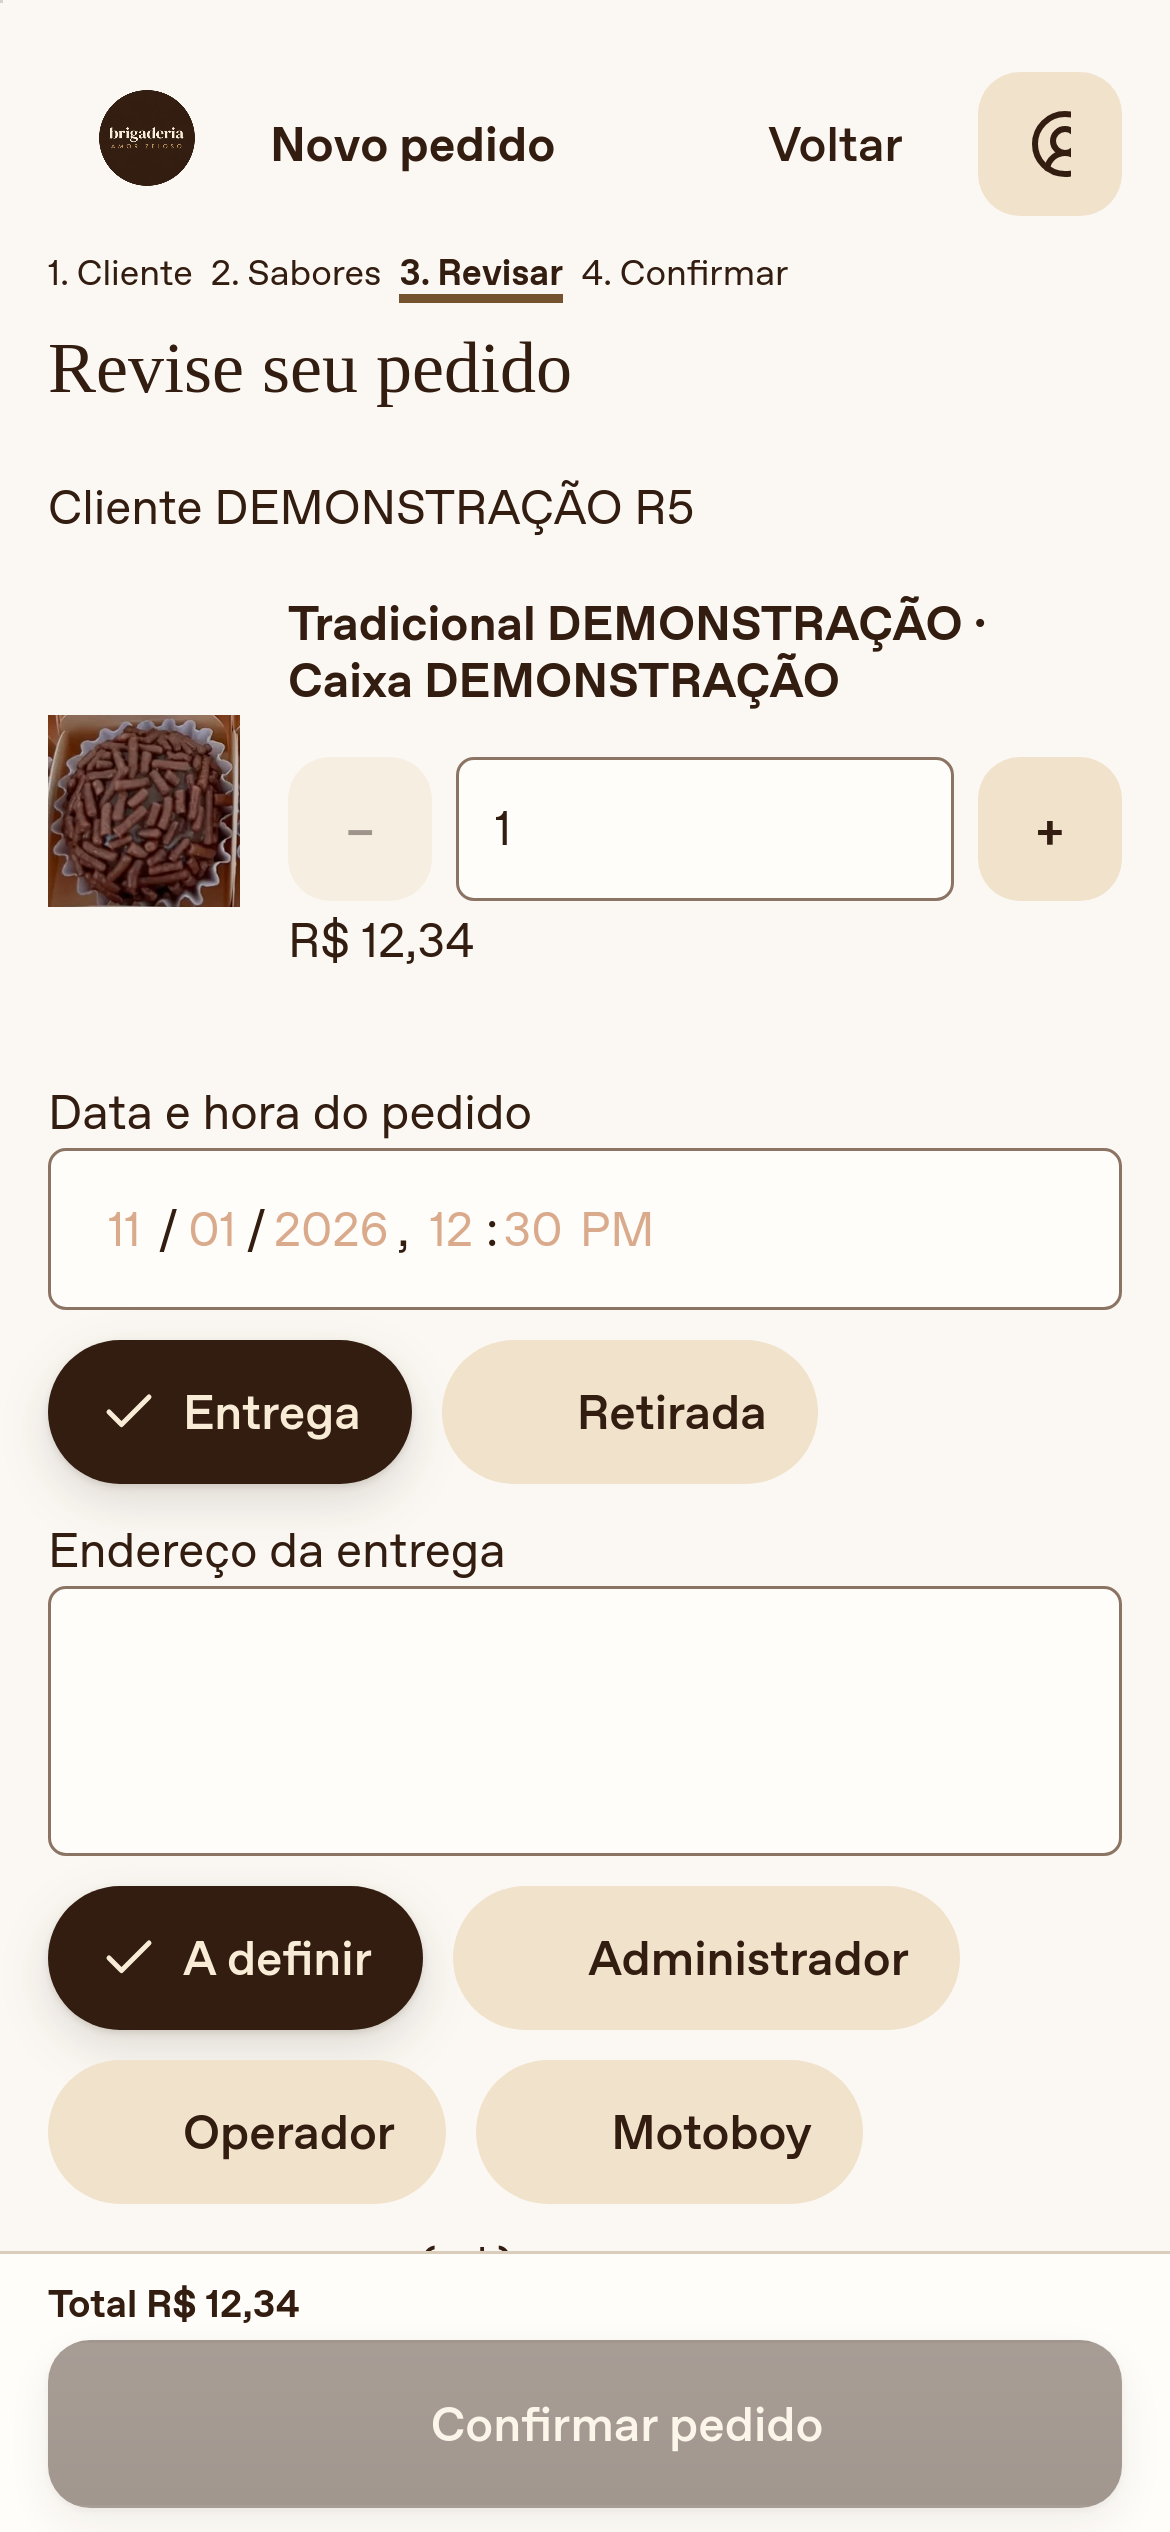
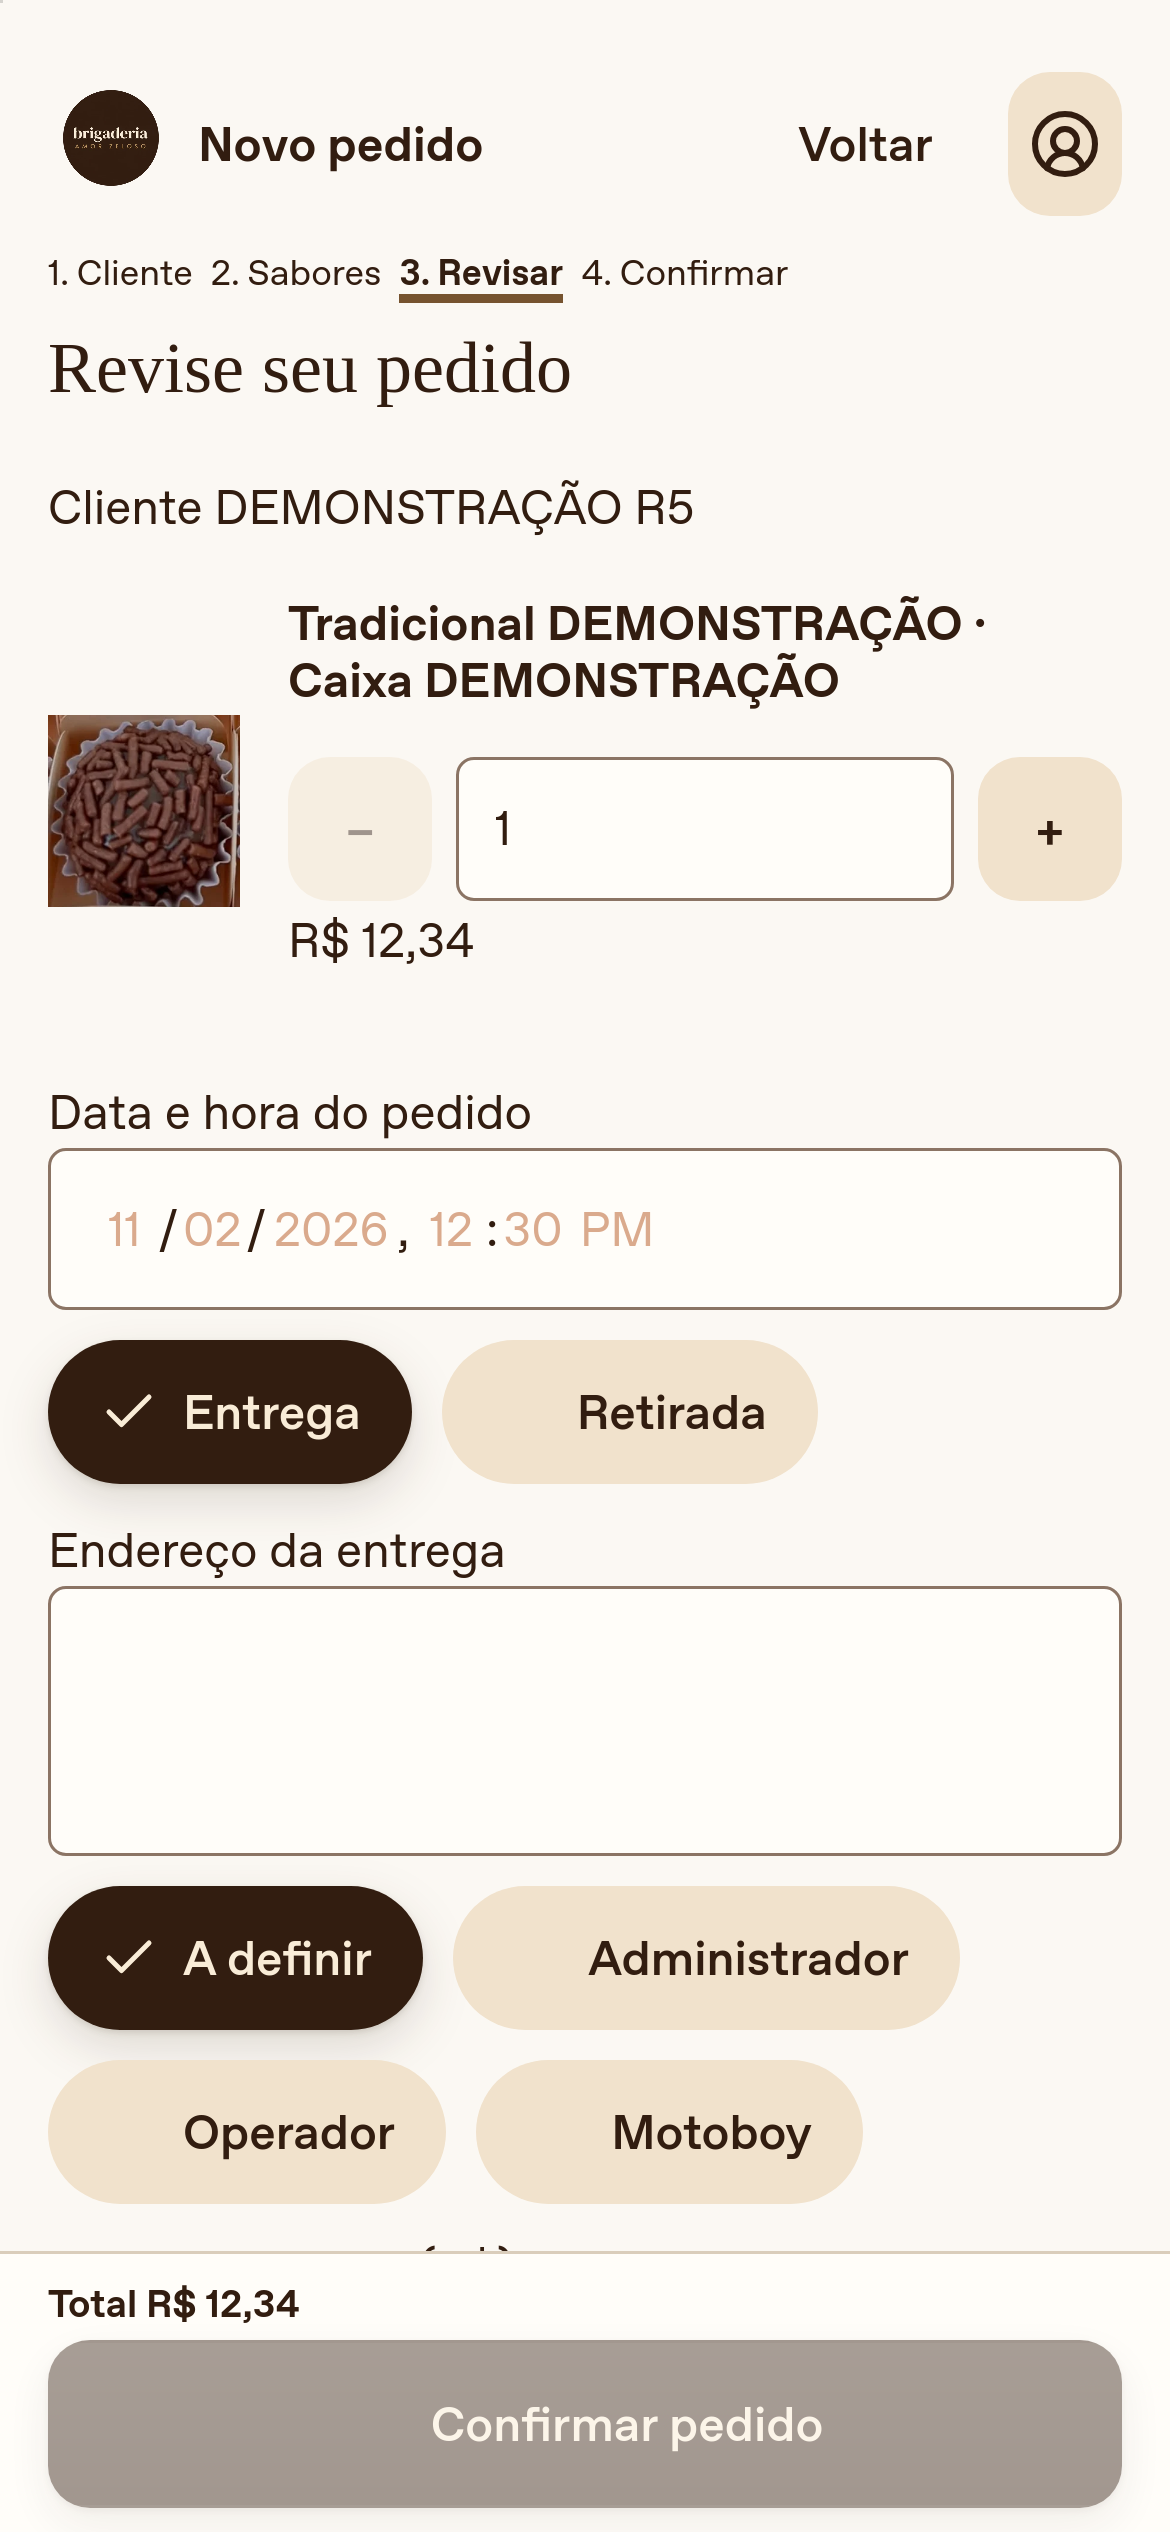
feat: prioritize operator deliveries on Today (R5-2)

diff --git a/src/features/operations/Today.tsx b/src/features/operations/Today.tsx
@@ -1,3 +1,4 @@
+import { createPortal } from 'react-dom';
 import { Button } from '../../components/Button';
 import { Transport } from '../field/Transport';
 import { TravelSheet } from '../field/TravelSheet';
@@ -30,6 +31,30 @@ import {
   MapLink,
   type OperationalOrder,
 } from './common';
+function WorkdayChip({
+  day,
+  onChange,
+}: {
+  day: string;
+  onChange: (v: string) => void;
+}) {
+  return (
+    <label className="workday-chip">
+      <span>
+        {day === localDay() ? 'Hoje, ' : ''}
+        {day.slice(8, 10)}/{day.slice(5, 7)} ▾
+      </span>
+      <input
+        aria-label="Dia de trabalho no celular"
+        type="date"
+        value={day}
+        onChange={(e) => {
+          if (e.target.value) onChange(e.target.value);
+        }}
+      />
+    </label>
+  );
+}
 function DayTotals({
   totals,
   financial = false,
@@ -142,8 +167,13 @@ export function Today({
       setBusy(false);
     }
   }
+  const dateSlot = document.getElementById('mobile-header-actions');
   return (
-    <>
+    <div
+      className={
+        role === 'operator' ? 'today-page operator-today' : 'today-page'
+      }
+    >
       {trip && (
         <TravelSheet
           orders={[trip]}
@@ -151,16 +181,9 @@ export function Today({
           onSaved={() => setNotice('Despesa de deslocamento registrada.')}
         />
       )}
-      {field && (
-        <label>
-          <input
-            type="checkbox"
-            checked={near}
-            onChange={(e) => setNear(e.target.checked)}
-          />
-          Ordenar por proximidade da base (linha reta)
-        </label>
-      )}
+      {role === 'operator' &&
+        dateSlot &&
+        createPortal(<WorkdayChip day={day} onChange={setDay} />, dateSlot)}
       <div className="page-heading today-heading">
         <div>
           <p className="eyebrow">SUA ROTINA</p>
@@ -175,7 +198,7 @@ export function Today({
           <RefreshCw size={20} aria-hidden="true" />
         </Button>
       </div>
-      <label>
+      <label className="workday-inline">
         Dia de trabalho
         <input
           type="date"
@@ -240,7 +263,7 @@ export function Today({
         </Button>
       )}
 
-      {p1 && <TodayReminders day={day} />}
+      {p1 && role === 'owner' && <TodayReminders day={day} />}
       {undo && (
         <Button
           disabled={busy}
@@ -310,9 +333,21 @@ export function Today({
           {role === 'owner' && (
             <DayTotals totals={view.data.totals} financial={financial} />
           )}
-          <h2>
-            {role === 'owner' ? 'Pedidos e pendências' : 'Entregas do dia'}
-          </h2>
+          <div className="deliveries-heading">
+            <h2>
+              {role === 'owner' ? 'Pedidos e pendências' : 'Entregas do dia'}
+            </h2>
+            {field && (
+              <Button
+                variant="chip"
+                aria-label="Ordenar por proximidade da base (linha reta)"
+                aria-pressed={near}
+                onClick={() => setNear(!near)}
+              >
+                Proximidade
+              </Button>
+            )}
+          </div>
           <div className="record-list">
             {view.data.orders
               .filter(
@@ -440,6 +475,7 @@ export function Today({
               </Button>
             </section>
           )}
+          {p1 && role === 'operator' && <TodayReminders day={day} />}
           {financial && role !== 'owner' && <FinanceSummary compact />}
           {role !== 'owner' && (
             <DayTotals totals={view.data.totals} financial={financial} />
@@ -448,6 +484,6 @@ export function Today({
       ) : (
         !view.error && <p role="status">Carregando seu dia…</p>
       )}
-    </>
+    </div>
   );
 }

diff --git a/src/styles.css b/src/styles.css
@@ -1546,10 +1546,11 @@ button,
   .order-focus .totem-bar .az-button {
     width: 100%;
   }
-  .compact-header:has(#order-focus-back:not(:empty)) .profile-menu-trigger {
+  .compact-header:has(#mobile-header-actions:not(:empty))
+    .profile-menu-trigger {
     max-width: 48px;
   }
-  .compact-header:has(#order-focus-back:not(:empty))
+  .compact-header:has(#mobile-header-actions:not(:empty))
     .profile-menu-trigger
     .az-button-label
     > span {
@@ -1560,5 +1561,66 @@ button,
 @media (max-width: 700px) {
   .order-focus .totem-back {
     display: none;
+  }
+}
+
+/* R5-2: a operadora começa pelas entregas, com o dia na linha do cabeçalho. */
+.workday-chip {
+  position: relative;
+  display: inline-flex;
+  align-items: center;
+  min-height: 48px;
+  padding: 8px 10px;
+  border-radius: 999px;
+  background: #f1e2cc;
+  font-size: 0.8rem;
+  white-space: nowrap;
+  margin: 0;
+}
+.workday-chip input {
+  position: absolute;
+  inset: 0;
+  opacity: 0;
+  width: 100%;
+  cursor: pointer;
+}
+.workday-chip:focus-within {
+  outline: 3px solid var(--gold);
+  outline-offset: 2px;
+}
+.deliveries-heading {
+  display: flex;
+  align-items: center;
+  justify-content: space-between;
+  gap: 8px;
+}
+.deliveries-heading h2 {
+  margin: 0;
+  font-size: 1.2rem;
+}
+@media (max-width: 700px) {
+  .operator-today .today-heading,
+  .operator-today .workday-inline {
+    display: none !important;
+  }
+  .operator-today .deliveries-heading {
+    min-height: 48px;
+    margin: 0 0 8px;
+  }
+  .operator-today .deliveries-heading h2 {
+    font-size: 1rem;
+  }
+  .operator-today .record-list .order-card {
+    margin: 0;
+  }
+  .operator-today > p:empty {
+    margin: 0;
+  }
+  .compact-header > a.az-button {
+    min-width: 40px;
+    padding: 4px;
+  }
+  .compact-header .profile-menu-trigger.az-button {
+    padding: 6px;
   }
 }

diff --git a/src/features/mobile/CompactHeader.tsx b/src/features/mobile/CompactHeader.tsx
@@ -60,8 +60,20 @@ export function CompactHeader({
         >
           <img src="/brand/logo.webp" alt="" width={32} height={32} />
         </Button>
-        <strong className="compact-title">{title}</strong>
-        <span id="order-focus-back" />
+        <strong
+          className="compact-title"
+          role={
+            operations && role === 'operator' && !segment
+              ? 'heading'
+              : undefined
+          }
+          aria-level={
+            operations && role === 'operator' && !segment ? 1 : undefined
+          }
+        >
+          {title}
+        </strong>
+        <span id="mobile-header-actions" />
         <Button
           ref={trigger}
           className="profile-menu-trigger"

diff --git a/tests/e2e/review-r5-flows.spec.js b/tests/e2e/review-r5-flows.spec.js
@@ -32,6 +32,15 @@ test('R5 telas móveis com ações compartilhadas', async ({
     };
     await p.goto(t.url + '/api/access/start');
     await expect(p.locator('.order-card')).toBeVisible();
+    await expect(p.getByLabel('Dia de trabalho no celular')).toBeVisible();
+    expect(
+      (await p.locator('.order-card').first().boundingBox()).y,
+    ).toBeLessThanOrEqual(140);
+    const reminder = p.getByRole('heading', { name: 'Lembretes até este dia' });
+    if (await reminder.count())
+      expect((await reminder.boundingBox()).y).toBeGreaterThan(
+        (await p.locator('.order-card').first().boundingBox()).y,
+      );
     await capture('hoje');
     await p.goto(t.url + '/gestao/pedidos?novo=1');
     await p

diff --git a/tests/e2e/planning.spec.js b/tests/e2e/planning.spec.js
@@ -44,7 +44,11 @@ test('agenda privada, ICS e lembrete visível/concluído no Hoje', async ({
     const download = await downloadEvent;
     expect(download.suggestedFilename()).toBe('agenda-amor-zeloso.ics');
     await page.goto(t.url + '/gestao');
-    await page.getByLabel('Dia de trabalho').fill('2030-01-07');
+    await page
+      .getByLabel('Dia de trabalho', { exact: true })
+      .or(page.getByLabel('Dia de trabalho no celular', { exact: true }))
+      .filter({ visible: true })
+      .fill('2030-01-07');
     await expect(
       page.getByRole('heading', { name: 'Ligar · DEMONSTRAÇÃO', exact: true }),
     ).toBeVisible();

diff --git a/tests/e2e/operations.spec.js b/tests/e2e/operations.spec.js
@@ -103,7 +103,11 @@ test('operação móvel: Hoje por papel, status/desfazer, recorrência, WhatsApp
     await expect(
       second.getByRole('heading', { name: 'Hoje', exact: true }),
     ).toBeVisible();
-    await second.getByLabel('Dia de trabalho').fill('2030-01-07');
+    await second
+      .getByLabel('Dia de trabalho', { exact: true })
+      .or(second.getByLabel('Dia de trabalho no celular', { exact: true }))
+      .filter({ visible: true })
+      .fill('2030-01-07');
     await expect(
       second.getByRole('button', { name: 'Ajuda: Produzir hoje' }),
     ).toHaveCount(0);

diff --git a/src/features/mobile/Totem.tsx b/src/features/mobile/Totem.tsx
@@ -107,7 +107,7 @@ export function Totem({ financial = false }: { financial?: boolean }) {
   const root = useRef<HTMLElement>(null);
   const focusBack =
     typeof document !== 'undefined'
-      ? document.getElementById('order-focus-back')
+      ? document.getElementById('mobile-header-actions')
       : null;
   const choice = useRef(0),
     pending = useRef(false),

diff --git a/docs/colaboracao/CODEX_PARA_CLAUDE.md b/docs/colaboracao/CODEX_PARA_CLAUDE.md
@@ -112,12 +112,14 @@ Plano: R5-1 (CompactHeader, Management, Tour e CSS; linha móvel ≤56 px e menu
 | R5-1  | entregue                             | Cabeçalho móvel de 56 px, logo/título/menu, perfil quando cadastrado; Ajuda, passeio e Sair no menu. PC preservado. Build/tipagem/lint e seis E2E de cabeçalho/operação passaram nos três projetos; gestão/logout também passaram nos três projetos.                                                                                                                                                                                |
 | R5-12 | entregue                             | Button compartilhado, primário/tonal/fantasma/perigo/chip/cartão, loading/foco/reduced-motion. 52 unitários, contraste AA, build/tipagem/lint e 53 E2E aprovados; um offline WebKit ignorado. Seis capturas r5-depois- incluídas.                                                                                                                                                                                                   |
 | R5-3  | entregue com limite de sincronização | Foco sem barra inferior, Voltar no cabeçalho, cartão de embalagem única sem texto duplicado, fotos 120 px, contador/decremento, estado vazio sem 0,00. Prioridade cliente → geral → preferência manual local, depois cadastro (Tradicional no desempate). Ordem manual em Produtos salva apenas IDs neste navegador; sincronização entre aparelhos exige armazenamento compartilhado e fica pendente sob a restrição de não migrar. |
-| R5-2  | pendente                             | Entregas primeiro.                                                                                                                                                                                                                                                                                                                                                                                                                  |
+| R5-2  | entregue                             | Operadora vê entregas antes dos lembretes; data no cabeçalho e proximidade junto ao título. Primeira entrega até 140 px em 390×844.                                                                                                                                                                                                                                                                                                 |
 | R5-4  | pendente                             | Lista/folha.                                                                                                                                                                                                                                                                                                                                                                                                                        |
 
 Limitação: validação em navegador simulado, aparelho físico pendente.
 
 ## Histórico
+
+- **2026-11-02 — R5-2:** entregas primeiro para operadora, sem alterar a visão administrativa. Data móvel nativa no cabeçalho; chip de proximidade acessível. Doze E2E de operações/agenda passaram; fluxos R5 e recebimento R2 passaram nos três projetos. Build/tipagem/lint aprovados. Sem alteração remota; próximo R5-4.
 
 - **2026-11-01 — R5-3:** seis E2E de pedido padrão/foco passaram nos três projetos; cinco cartões de 390×844 cabem acima da barra de ação sem rolar. 53 unitários, build/tipagem/lint e integração móvel/campo aprovados. Popularidade consultada em lote, isolada por organização; ordem manual local editável em Produtos, sem mudança de schema. Revisar mantém edição precisa de quantidades. Próximos: R5-2 e R5-4.
 
